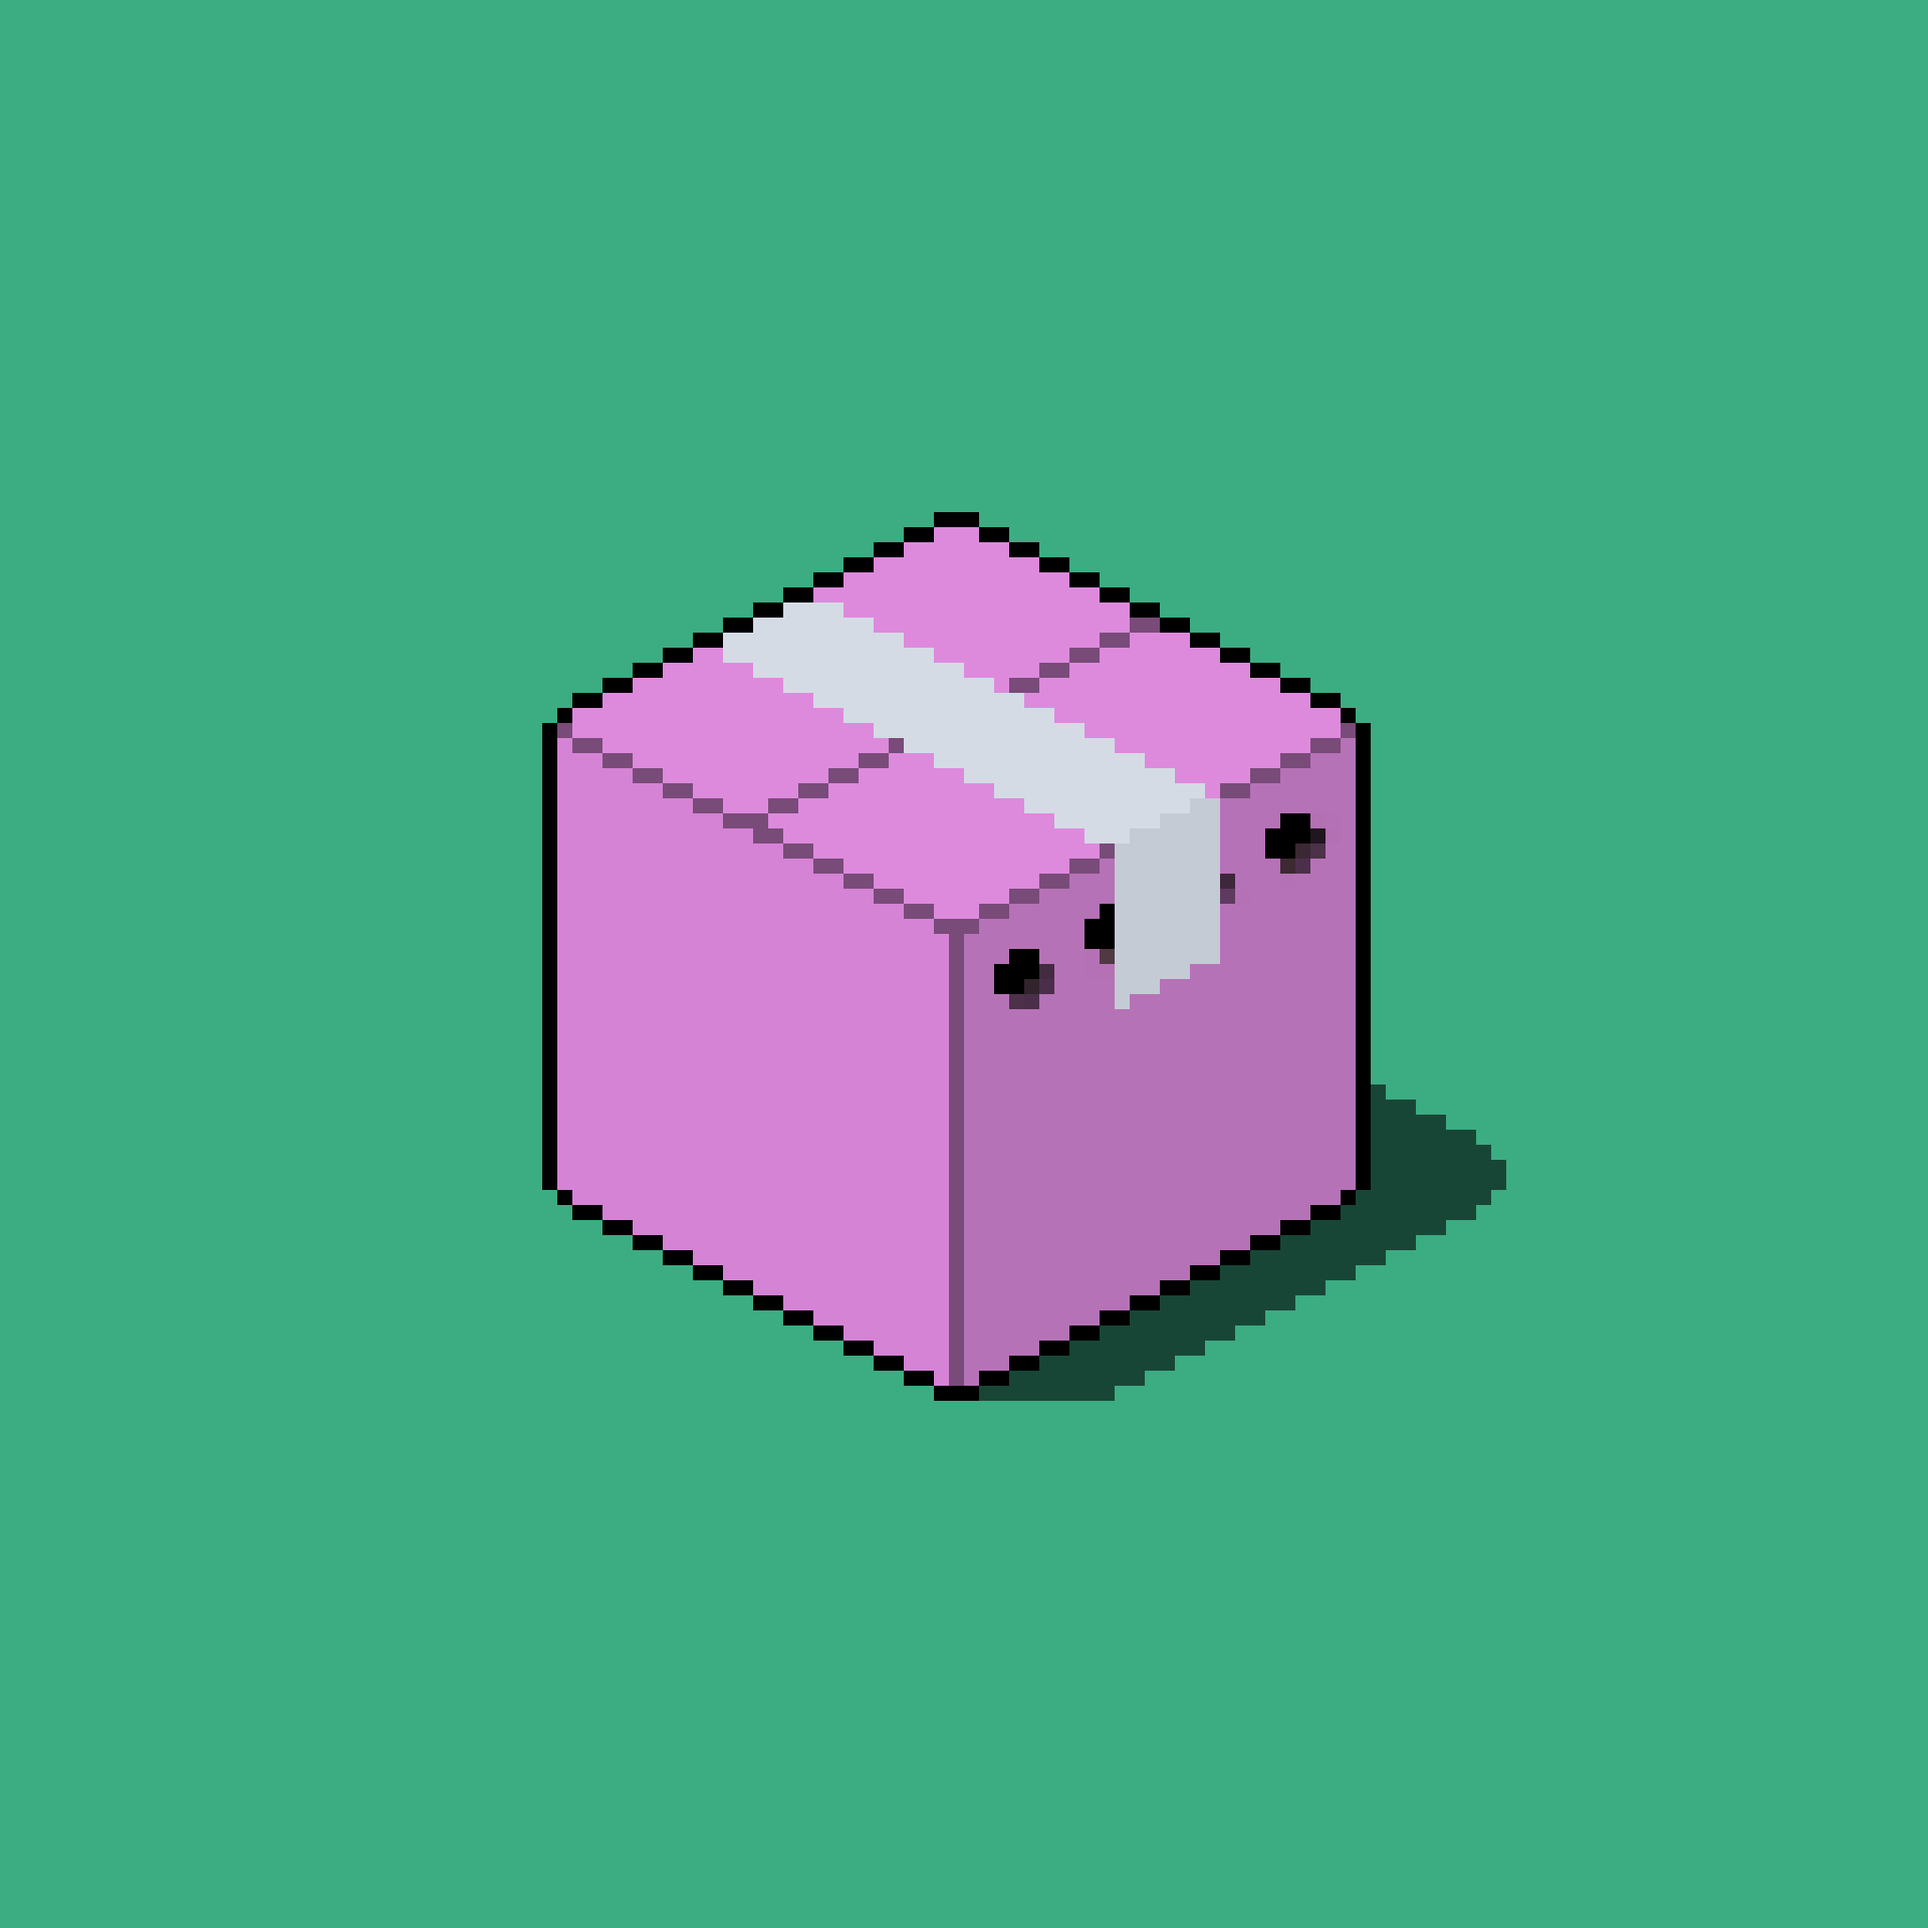
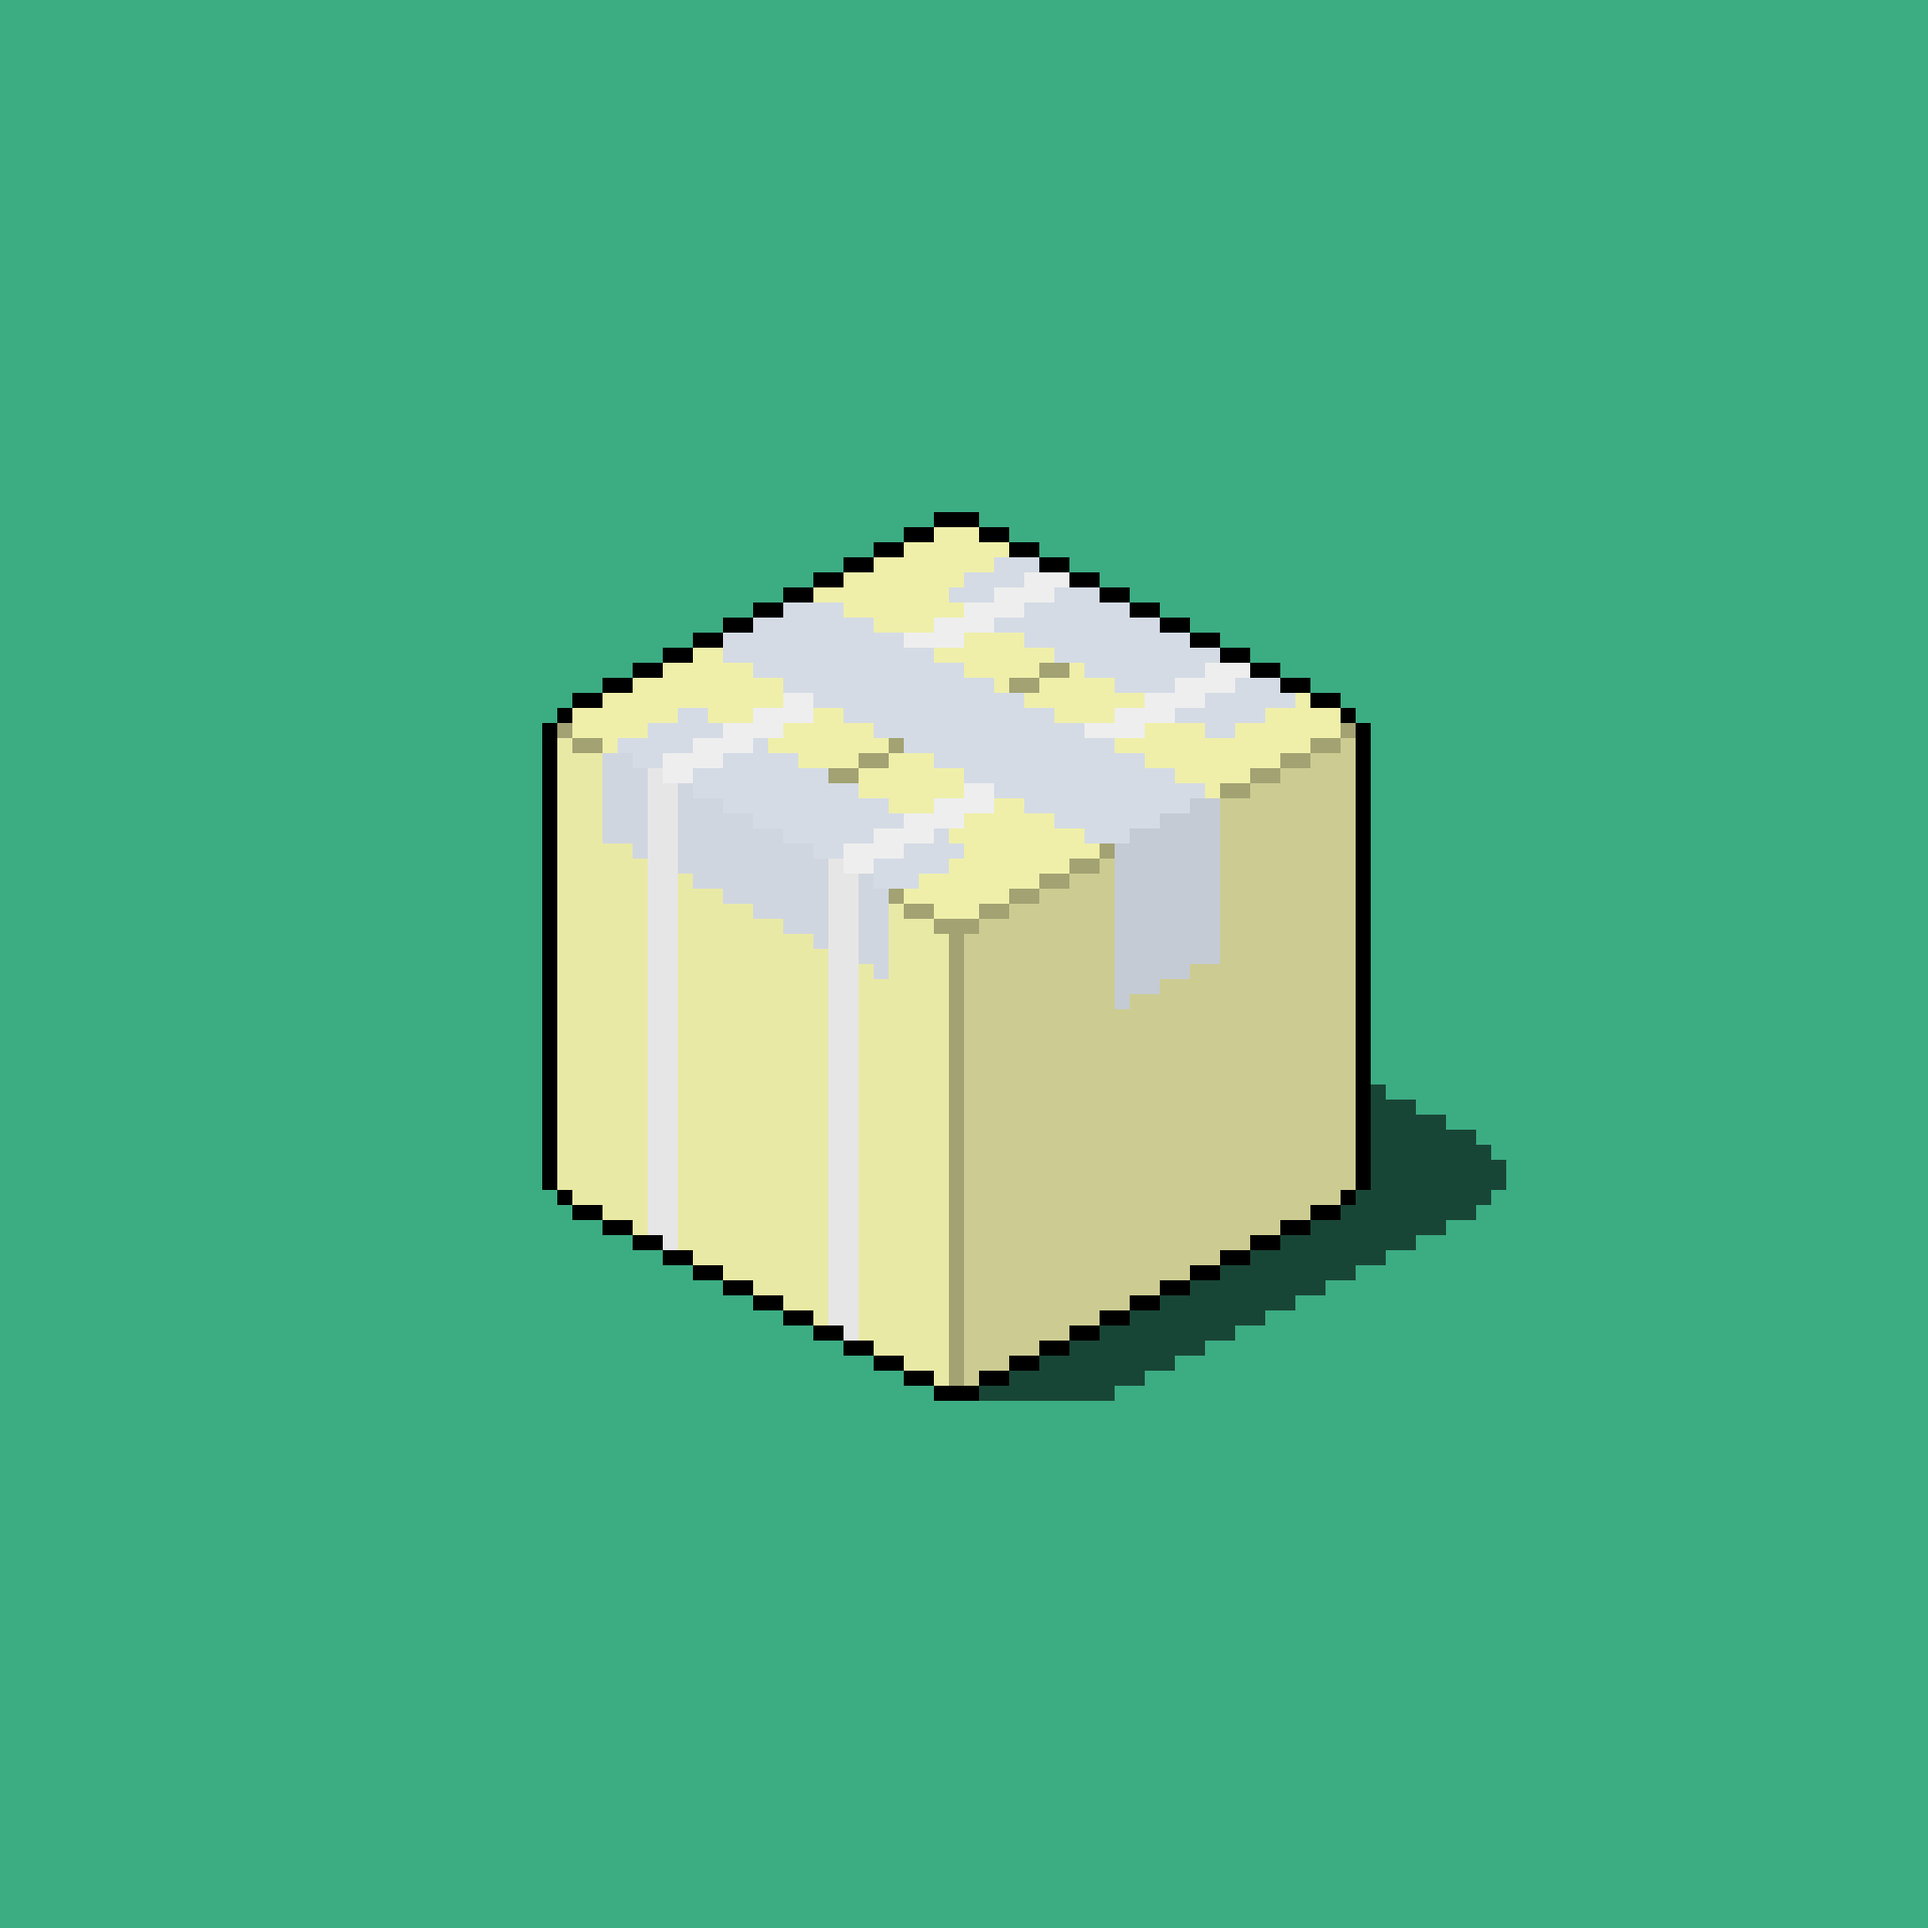
more bug fixes

Changed region(s): [[0.2812, 0.25, 0.7188, 0.7188]]

diff --git a/boxes/boxes.go b/boxes/boxes.go
@@ -62,7 +62,6 @@ func (box *Box) getExtras() (err error) {
 		return err
 	}
 
-	fmt.Println(extras)
 	// For each extra trait get a random attribute for it
 	for i := 0; i < len(extras); i++ {
 		attribute, err := generateRandomAttribute(Traits[extras[i]])
@@ -78,9 +77,6 @@ func (box *Box) getExtras() (err error) {
 			}
 			box.Bindings = append(box.Bindings, attribute)
 		case "cutout":
-			if len(box.Cutouts) != 0 {
-				continue
-			}
 			box.Cutouts = append(box.Cutouts, attribute)
 		}
 	}
@@ -90,10 +86,9 @@ func (box *Box) getExtras() (err error) {
 
 // Saves the box as a png, will need to do lots more in future
 func (box Box) SaveBox() error {
-
 	rgba, err := gim.New([]*gim.Grid{
 		{
-			ImageFilePath: box.Background.ImagePath,
+			ImageFilePath: box.Background.ImagePath, // Switch to box.Color.ImagePath to have no background
 			Grids:         box.createGrids(),
 		},
 	}, 1, 1).Merge()
@@ -105,6 +100,7 @@ func (box Box) SaveBox() error {
 	if err != nil {
 		return err
 	}
+	defer f.Close()
 
 	x2048 := imaging.Resize(rgba, 2048, 2048, imaging.NearestNeighbor)
 	err = png.Encode(f, x2048)
@@ -136,18 +132,27 @@ func (box Box) createGrids() (grid []*gim.Grid) {
 
 // Returns an array of extra traits that will then be used to add to the box
 func generateExtras() (extras []string, err error) {
+	// Gets the random number of extra traits the box will have
 	chooserInterface, err := createChooser(NumberOfTraitsConfig)
 	if err != nil {
 		return extras, err
 	}
 	numberOfExtras := chooserInterface.(int)
 
+	// Copies the config
 	extraChoicesMap := make(map[string]wr.Choice)
 	for key, val := range ExtrasConfig {
 		extraChoicesMap[key] = val
 	}
 
 	for i := 0; i < numberOfExtras; i++ {
+
+		// Don't allow duplicate extras
+		for i := range extras {
+			if extras[i] != "binding" {
+				delete(extraChoicesMap, extras[i])
+			}
+		}
 
 		var extraChoices []wr.Choice
 		for _, val := range extraChoicesMap {
@@ -157,13 +162,6 @@ func generateExtras() (extras []string, err error) {
 		chooserInterface, err := createChooser(extraChoices)
 		if err != nil {
 			return extras, err
-		}
-
-		// Don't allow duplicate extras
-		for i := range extras {
-			if extras[i] != "binding" {
-				delete(extraChoicesMap, extras[i])
-			}
 		}
 
 		extras = append(extras, chooserInterface.(string))
